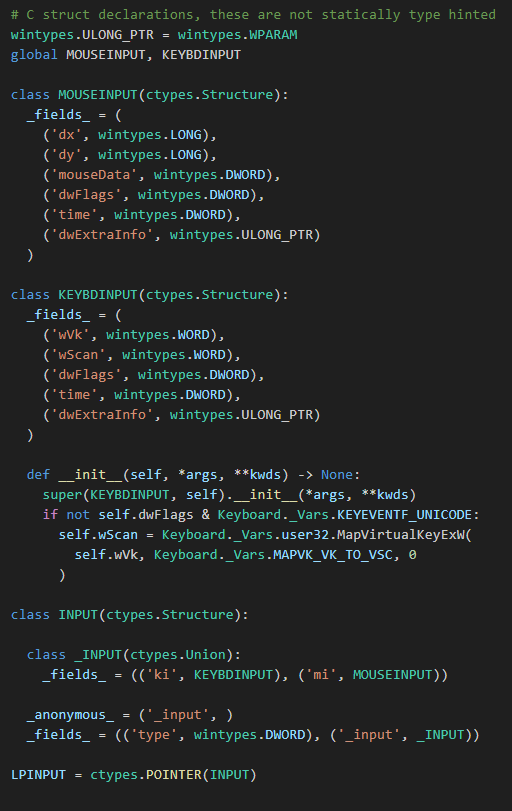
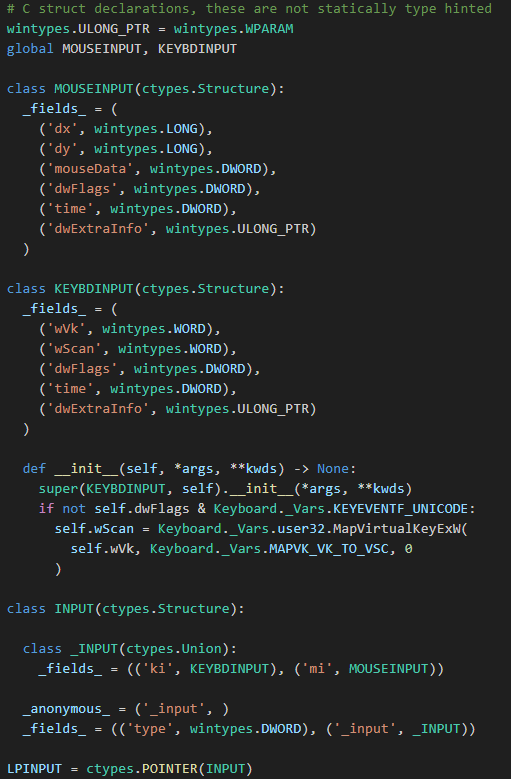
add contact info to readme and add static type hinting to py_key

diff --git a/source/py_key.py b/source/py_key.py
@@ -5,8 +5,8 @@
 import time
 import ctypes
 import win32api
+from typing import *
 from win32con import *
-from typing import Any
 from ctypes import wintypes
 from win32api import STD_INPUT_HANDLE
 from win32console import (
@@ -32,9 +32,8 @@ functions doc-string EX: output_path (str, optional)
 
 # TODO
 '''
-* Look over all functions
-* Add the Keyboard doc-string and other 
-things to the README.md
+* Look over all functions, still...
+* Keep adding thing to README.md
 '''
 
 
@@ -46,7 +45,7 @@ class Keyboard:
   |          function         description          |
   |------------------------------------------------|
   | class  GetKeystroke: A key poller wrapper      |
-  | func   mouse_scroll: Bare bones mouse scroller |
+  | func   _MOUSESCROLL: Bare-bones mouse scroller |
   | func   scrollMouse: Scrolls the mouse wheel    |
   | func   pressMouse: Sends a VK input to mouse   |
   | func   releaseMouse: Halt VK signal            |
@@ -241,45 +240,65 @@ class Keyboard:
     "\n": 0x0D
   }
 
-  # C struct declarations, these are not statically type hinted
-  wintypes.ULONG_PTR = wintypes.WPARAM
+  # C struct declarations, recently added type hinting
+  wintypes.ULONG_PTR: type[wintypes.WPARAM] = wintypes.WPARAM
   global MOUSEINPUT, KEYBDINPUT
 
   class MOUSEINPUT(ctypes.Structure):
-    _fields_ = (
-      ('dx', wintypes.LONG),
-      ('dy', wintypes.LONG),
-      ('mouseData', wintypes.DWORD),
-      ('dwFlags', wintypes.DWORD),
-      ('time', wintypes.DWORD),
-      ('dwExtraInfo', wintypes.ULONG_PTR)
+    _fields_: tuple[
+      tuple[Literal['dx'], wintypes.LONG],                  # A
+      tuple[Literal['dy'], wintypes.LONG],                  # B
+      tuple[Literal['mouseData'], wintypes.DWORD],          # C
+      tuple[Literal['dwFlags'], wintypes.DWORD],            # D
+      tuple[Literal['time'], wintypes.DWORD],               # E
+      tuple[Literal['dwExtraInfo'], type[wintypes.WPARAM]]  # F
+    ] = (
+      ('dx', wintypes.LONG),                                # A
+      ('dy', wintypes.LONG),                                # B
+      ('mouseData', wintypes.DWORD),                        # C
+      ('dwFlags', wintypes.DWORD),                          # D
+      ('time', wintypes.DWORD),                             # E
+      ('dwExtraInfo', wintypes.ULONG_PTR)                   # F
     )
 
   class KEYBDINPUT(ctypes.Structure):
-    _fields_ = (
-      ('wVk', wintypes.WORD),
-      ('wScan', wintypes.WORD),
-      ('dwFlags', wintypes.DWORD),
-      ('time', wintypes.DWORD),
-      ('dwExtraInfo', wintypes.ULONG_PTR)
+    _fields_: tuple[
+      tuple[Literal['wVk'], wintypes.WORD],                 # A
+      tuple[Literal['wScan'], wintypes.WORD],               # B
+      tuple[Literal['dwFlags'], wintypes.DWORD],            # C
+      tuple[Literal['time'], wintypes.DWORD],               # D
+      tuple[Literal['dwExtraInfo'], type[wintypes.WPARAM]]  # E
+    ] = (
+      ('wVk', wintypes.WORD),                               # A
+      ('wScan', wintypes.WORD),                             # B
+      ('dwFlags', wintypes.DWORD),                          # C
+      ('time', wintypes.DWORD),                             # D
+      ('dwExtraInfo', wintypes.ULONG_PTR)                   # E
     )
 
     def __init__(self, *args, **kwds) -> None:
+      # *args & **kwds are confusing asf: https://youtu.be/4jBJhCaNrWU?si=0zZQqGuMaR5ulLNb
       super(KEYBDINPUT, self).__init__(*args, **kwds)
       if not self.dwFlags & Keyboard._Vars.KEYEVENTF_UNICODE:
-        self.wScan = Keyboard._Vars.user32.MapVirtualKeyExW(
+        self.wScan: Any = Keyboard._Vars.user32.MapVirtualKeyExW(
           self.wVk, Keyboard._Vars.MAPVK_VK_TO_VSC, 0
         )
 
   class INPUT(ctypes.Structure):
 
     class _INPUT(ctypes.Union):
-      _fields_ = (('ki', KEYBDINPUT), ('mi', MOUSEINPUT))
+      _fields_: tuple[
+        tuple[Literal['ki'], type[KEYBDINPUT]], 
+        tuple[Literal['mi'], type[MOUSEINPUT]]
+      ] = (('ki', KEYBDINPUT), ('mi', MOUSEINPUT))
 
-    _anonymous_ = ('_input', )
-    _fields_ = (('type', wintypes.DWORD), ('_input', _INPUT))
+    _anonymous_: tuple[Literal['_input']] = ('_input', )
+    _fields_: tuple[
+      tuple[Literal['type'], wintypes.DWORD], 
+      tuple[Literal['_input'], type[_INPUT]]
+    ] = (('type', wintypes.DWORD), ('_input', _INPUT))
 
-  LPINPUT = ctypes.POINTER(INPUT)
+  LPINPUT: Any = ctypes.POINTER(INPUT)
 
   # Helpers
 
@@ -297,7 +316,7 @@ class Keyboard:
       return False
 
   @staticmethod
-  def mouse_scroll(axis: str, dist: int, x: int = 0, y: int = 0) -> None | bool:
+  def _MOUSESCROLL(axis: str, dist: int, x: int = 0, y: int = 0) -> None | bool:
     if axis == 'v' or axis == 'vertical':
       win32api.mouse_event(MOUSEEVENTF_WHEEL, x, y, dist, 0)
     elif axis == 'h' or axis == 'horizontal':
@@ -320,6 +339,10 @@ class Keyboard:
     Returns:
       str: The key pressed after calling the class
     """
+
+    def __init__(self) -> None:
+      self.cur_event_len: None | int = None
+
     def __enter__(self) -> Any:
       self.readHandle: Any = GetStdHandle(STD_INPUT_HANDLE)
       self.readHandle.SetConsoleMode(
@@ -402,13 +425,13 @@ class Keyboard:
       return Keyboard._Vars.exit_code
 
     if direction == 'up':
-      Keyboard.mouse_scroll('vertical', amount, dx, dy)
+      Keyboard._MOUSESCROLL('vertical', amount, dx, dy)
     elif direction == 'down':
-      Keyboard.mouse_scroll('vertical', -amount, dx, dy)
+      Keyboard._MOUSESCROLL('vertical', -amount, dx, dy)
     elif direction == 'right':
-      Keyboard.mouse_scroll('horizontal', amount, dx, dy)
+      Keyboard._MOUSESCROLL('horizontal', amount, dx, dy)
     elif direction == 'left':
-      Keyboard.mouse_scroll('horizontal', -amount, dx, dy)
+      Keyboard._MOUSESCROLL('horizontal', -amount, dx, dy)
 
   @staticmethod
   def pressMouse(mouse_button: str | int) -> None:

diff --git a/README.md b/README.md
@@ -7,7 +7,7 @@ A class used for handling inputs via VK codes and win32 API moved from Helper/cu
 Keyboard class doc-string
 
 ![Keyboard input class](ignore/input-class.png 'class for Keyboard input')  
-Main Keyboard input class
+Main Keyboard input class (before static type hinting was added)
 
 
 ## Code Rules
@@ -22,3 +22,14 @@ Main Keyboard input class
 * If a variable or function uses more than one type use EX: num: int | float = 0.1
 * When outputting a message like info or an error end the print statement with a period
 * Make sure optional parameters are specifed in the functions doc-string EX: output_path (str, optional)
+
+
+## Extra 
+[Source](https://github.com/itzCozi/Py-Keyboard-Class/blob/main/source/py_key.py)  
+[Compiler](https://pypi.org/project/auto-py-to-exe/)  
+
+
+### Contact Me
+Discord: .baddeveloper  
+Email: Cooperransom08@outlook.com  
+[Discord Server](https://discord.gg/xGnQQGxwq2)  |  [Replit](https://replit.com/@cozi08)  |  [Twitter](https://twitter.com/ransom_cooper)
